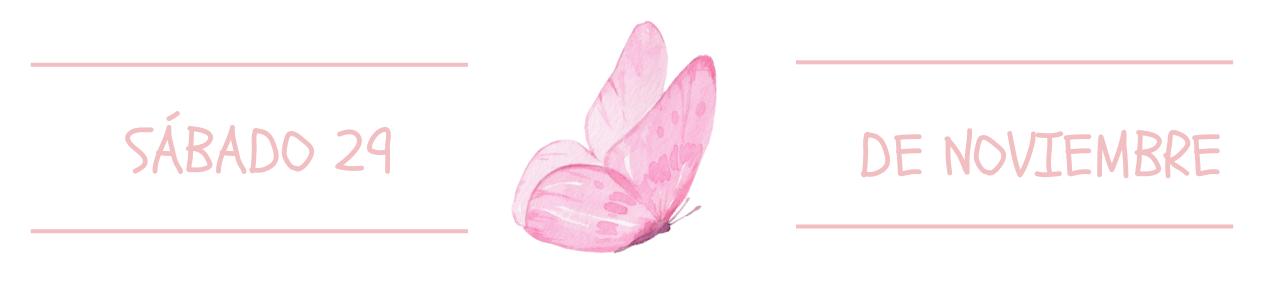
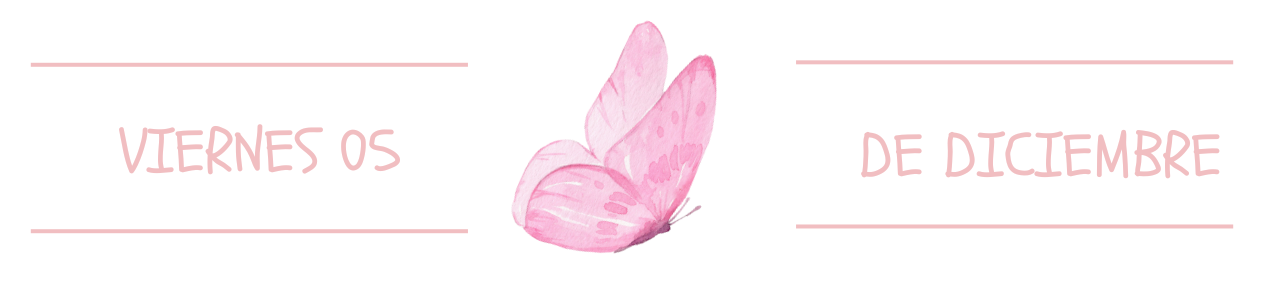
A
A

Changed region(s): [[0.0926, 0.4091, 0.3394, 0.5844], [0.7405, 0.4091, 0.8331, 0.5844], [0.1234, 0.3506, 0.1543, 0.3799]]

diff --git a/index.html b/index.html
@@ -42,8 +42,8 @@
     <div class="segundo"> 
   
           <p data-aos="fade-up"> TE ESPERO PARA FESTEJAR <br> MI PRIMER AÑITO <br>
-        🎉 29 DE NOVIEMBRE <br>⏰ DE 14 A 19 HS <br> 📍 CALCAGNO 1117 - PILAR <br> <br>  HACE CLICK PARA SABER COMO LLEGAR</p>
-      <a  data-aos="fade-up" class="boton2" target="_blank"  href="https://www.google.com/maps/place/E.+Calcagno+1117,+B1631BRS+Villa+Rosa,+Provincia+de+Buenos+Aires/@-34.4054181,-58.8620729,3235m/data=!3m1!1e3!4m5!3m4!1s0x95bc9deababdad9d:0x79eb358464d59c26!8m2!3d-34.411696!4d-58.8501571?entry=ttu&g_ep=EgoyMDI1MTEwNC4xIKXMDSoASAFQAw%3D%3D">CÓMO LLEGAR</a>    
+        🎉 05 DE DICIEMBRE <br>⏰ DE 14 A 19 HS <br> 📍 AGRELO Y BOUNAROTTI.<br> <br>  HACE CLICK PARA SABER COMO LLEGAR</p>
+      <a  data-aos="fade-up" class="boton2" target="_blank"  href="https://www.google.com/maps/dir//-34.5158157,-58.7835846/@-34.5158157,-58.7861595,17z/data=!4m8!1m5!3m4!2zMzTCsDMwJzU2LjkiUyA1OMKwNDcnMDAuOSJX!8m2!3d-34.5158157!4d-58.7835846!4m1!3e0?hl=es&entry=ttu&g_ep=EgoyMDI1MTExNy4wIKXMDSoASAFQAw%3D%3D">CÓMO LLEGAR</a>    
        
   
     </div>
@@ -84,7 +84,7 @@
           </div>
           <div>
             <h2 data-aos="fade-up" >Venezia</h2>
-            <H3 data-aos="fade-up">29.11.25</H3>
+            <H3 data-aos="fade-up">05.12.25</H3>
           </div>
           <div>
             <img class="espejo" src="./figuras/icon-1.png" alt="">

diff --git a/countdown.js b/countdown.js
@@ -30,4 +30,4 @@ const countdown = (deadline, elem, finalMessage ) => {
 };
 
 
-countdown('NOV 29 2025 13:00:51 GMT-0300', 'clock', 'llego el dia')
+countdown('DEC 05 2025 13:00:51 GMT-0300', 'clock', 'llego el dia')
